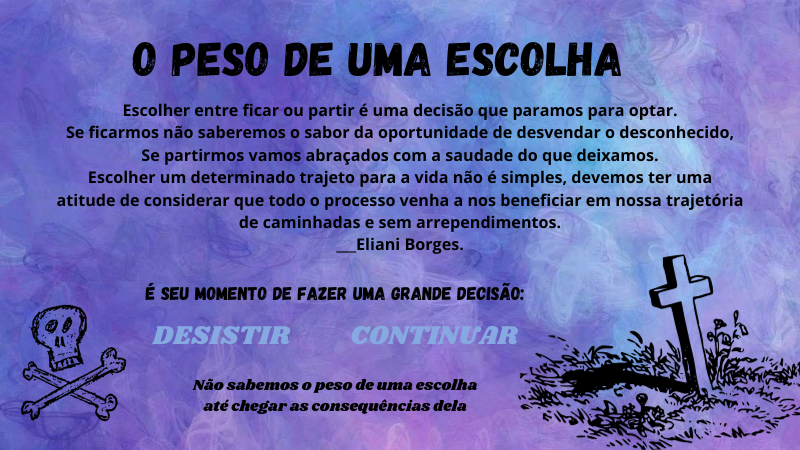
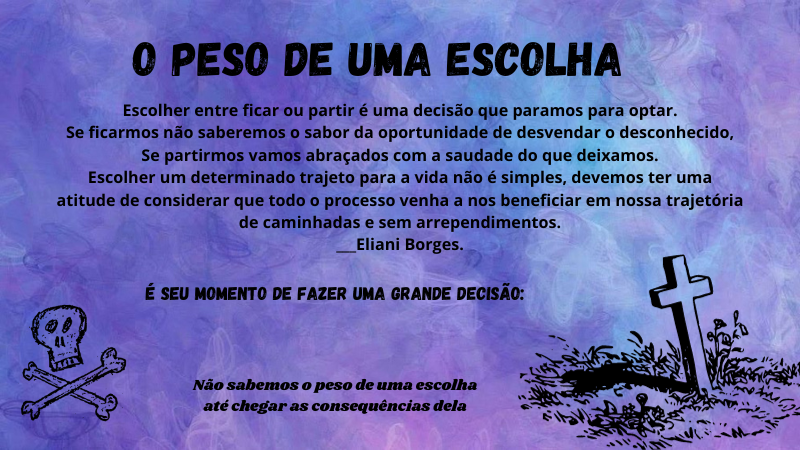
tentativa de criação de desafio

Changed region(s): [[0.4375, 0.7156, 0.6562, 0.7778], [0.1875, 0.7156, 0.375, 0.7778]]

diff --git a/cliente/sw.js b/cliente/sw.js
@@ -31,6 +31,8 @@ const precacheResources = [
   './assets/botoes/direita.png',
   './assets/botoes/esquerda.png',
   './assets/botoes/grade.png',
+  './assets/botoes/gradedesistir.png',
+  './assets/botoes/gradecontinuar.png',
   './assets/botoes/telacheia.png',
   './assets/botoes/telacheia11.png',
   './assets/botoes/vazio.png',
@@ -55,6 +57,7 @@ const precacheResources = [
   './assets/personagens/morte.png',
   './assets/personagens/morte1.png',
   './assets/1.png',
+  './assets/escolhas.png',
   './assets/audioambiente.mp3',
   './assets/audiomoeda.mp3',
   './assets/audiomorte.mp3',
@@ -83,6 +86,9 @@ const precacheResources = [
   './assets/portao4.png',
   './assets/resposta.png',
   './assets/salas.png',
+  './assets/moedaa.png',
+  './assets/resposta.png',
+  './assets/resposta1.png',
   // './assets/respiração.mp4',
   './assets/tela-inicial.png',
   './assets/telafinal.png',

diff --git a/cliente/js/cenas/desafiofinal.js b/cliente/js/cenas/desafiofinal.js
@@ -5,11 +5,24 @@ export default class desafiofinal extends Phaser.Scene {
 
   preload () {
     this.load.image('escolhas', './assets/escolhas.png')
+    this.load.image('gradedesistir', '../assets/botoes/gradedesistir.png')
+    this.load.image('gradecontinuar', '../assets/botoes/gradecontinuar.png')
   }
 
   create () {
     this.imagem = this.add.image(400, 225, 'escolhas')
-    
+    this.image = this.add.image(400, 408, 'gradecontinuar')
+      .setInteractive()
+      .on('pointerdown', () => {
+        this.game.scene.stop('desafiofinal')
+        this.game.scene.resume('principal')
+      })
+    this.image = this.add.physics.image(200, 408, 'gradedesistir')
+      .setInteractive()
+      .on('pointerdown', () => {
+        this.game.scene.stop('desafiofinal')
+        this.game.scene.start('finaltriste')
+      })
   }
 
   update () { }
